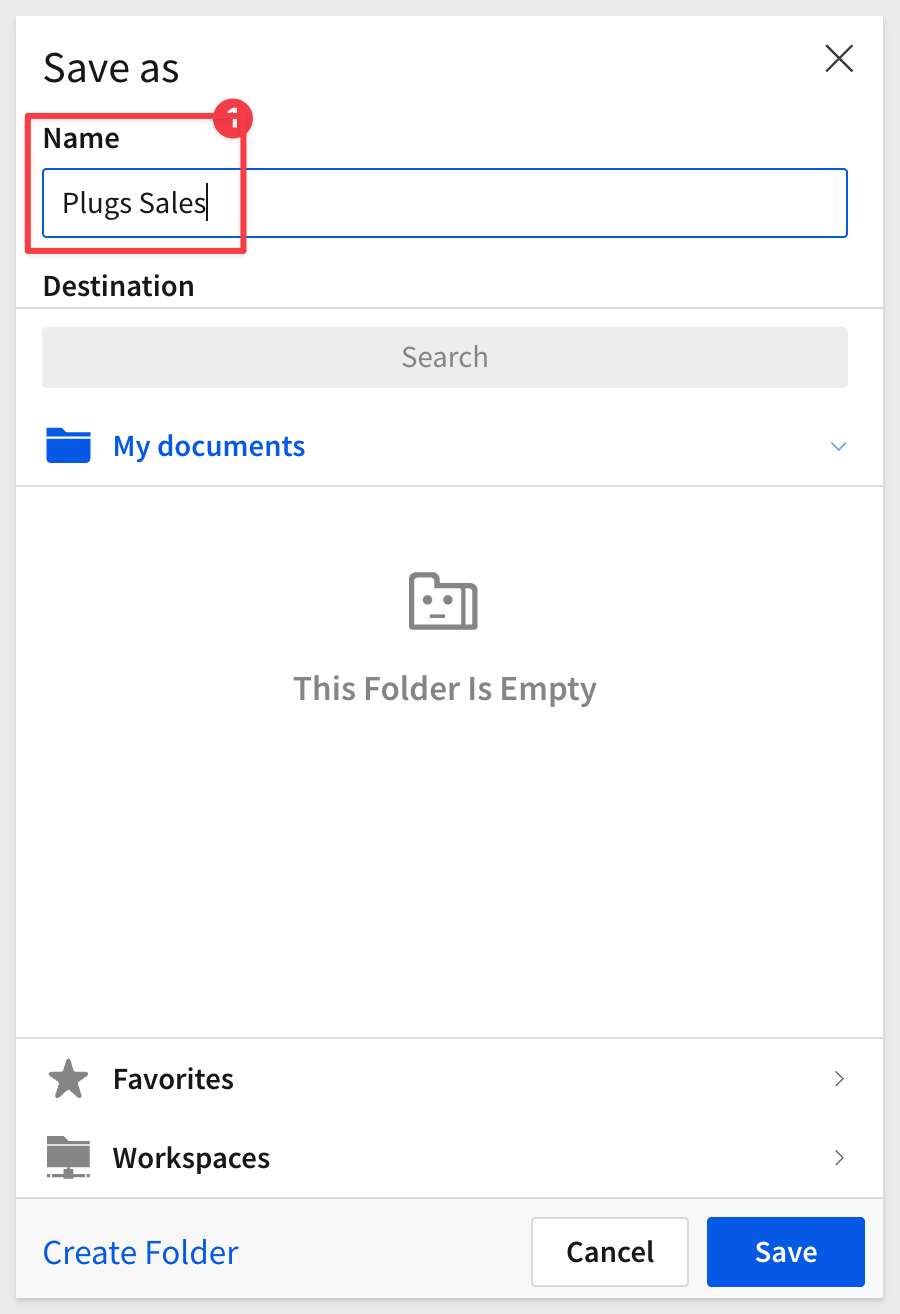
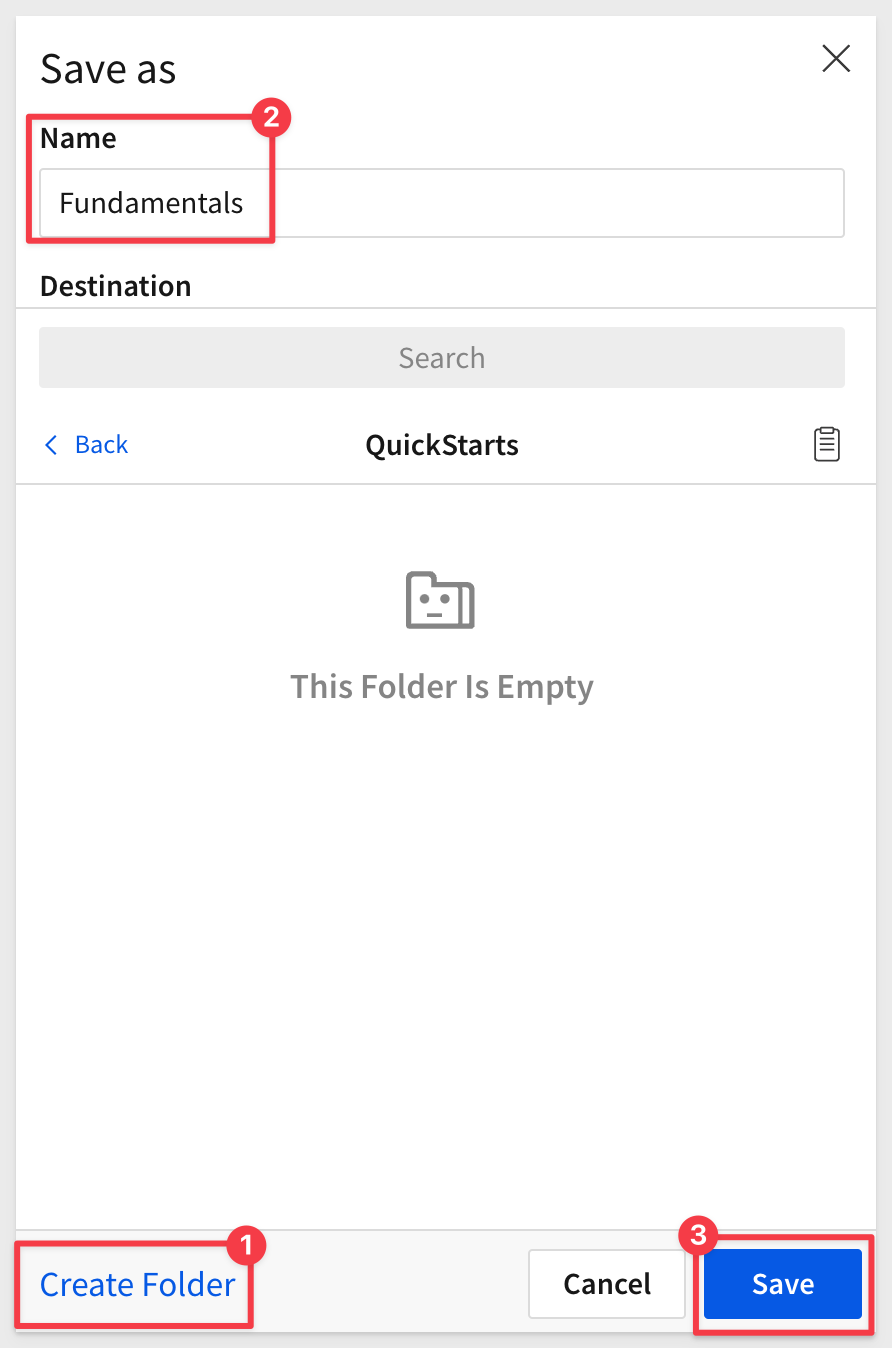
wip

diff --git a/site/sigmaguides/src/Fundamentals 1: Getting Around_v2/Fundamentals 1: Getting Around.md b/site/sigmaguides/src/Fundamentals 1: Getting Around_v2/Fundamentals 1: Getting Around.md
@@ -112,11 +112,11 @@ When the page loads in your default browsers, enter in your `Company Name` and `
 
 Create your user profile and click the `Create` button:
 
-<img src="assets/f3.png" alt="drawing" width="800"/>
+<img src="assets/f3.png"  width="800"/>
 
 You should now see the Welcome Message for your `Sigma Trial`. There is a video tutorial you can watch if you like but for this QuickStart, just click `Go to home page`:
 
-<img src="assets/f4.png" alt="drawing" width="800"/>
+<img src="assets/f4.png"  width="800"/>
 
 ![Footer](assets/sigma_footer.png)
 <!-- END OF SIGMA TRIAL SETUP -->
@@ -280,11 +280,13 @@ We can see all the different data available, and we are prompted to `Select a ta
 
 Select the `RETAIL` schema and the `Plugs_Electronics` (we will just call it “Plugs”) database, expand it and select the `PLUGS_ELECTRONICS_HANDS_ON_LAB_DATA` table. 
 
-We can see exactly what is **live** in the Snowflake table. 
+We can see all the data that is **live** in the Snowflake table. 
 
 The path and name is shown at the top middle of the screen (#2) and the total row count (#3) is about **4.58+ million rows in 23 columns**.
 
 We are looking at the data (in the Overview tab) and we can also look at the column detail, permissions and other information about this table (#4).
+
+<img src="assets/f11.png" width="800"/>
 
 <aside class="positive">
 <strong>IMPORTANT:</strong><br> There is a lot more we can do with this table in this interface such as "pre-assign" friendly column names, create "metrics" and assign permissions and more. Feel free to explore if you are comfortable doing so.
@@ -310,13 +312,15 @@ This means you have one central location to start both your ad hoc analysis and 
 
 We are now inside a Sigma Workbook. 
 
+<img src="assets/f12.png" width="800"/>
+
 As you can see our table was added to the canvas (#1).  
 
 Each Workbook can have one or more `Pages` (#2), and each page has its own canvas. 
 
 Each canvas supports one or more visual elements (e.g. charts, tables, controls, images, etc). 
 
-Click on the `PLUGS_ELECTRONICS_HANDS_ON_LAB_DATA` table (if not already selected).
+Click on the `PLUGS_ELECTRONICS_HANDS_ON_LAB_DATA` table. When an element on the canvas is selected, it will have a blue border.
 
 The left hand pane (#3) shows a vertical view of all our columns, groupings, metrics and more.
 
@@ -338,13 +342,27 @@ It is best practice to name workbooks something that makes sense to you and othe
 
 Notice that we are given options on where to save it, using a familiar folder structure. 
 
-Click `Create Folder` and name it `Fundamentals`. Then click into the `Fundamentals` folder, and name the workbook `Plugs Sales`:
+Click `Create Folder` and name it `QuickStarts`. Then click into the `QuickStarts` folder, and name the workbook `Fundamentals`:
 
-<img src="assets/f13.png" alt="drawing" width="350"/>
+<img src="assets/f13.png"  width="350"/>
 
-If you need to rename it later you can by clicking on the workbook name's drop menu and selecting `Rename`. You could also just double-click the workbook name and type a new one:
+Workbooks have a menu that is accessed by clicking the down-arrow to the right of the name (#1):
 
-<img src="assets/f14.png" alt="drawing" width="400"/>
+The path to the workbook is shown (#2) along with the menu of features (#3).
+
+Clicking the star icon (#4) will add the workbook to your favorites list that is shown on the homepage.
+
+<img src="assets/f14.png" width="400"/>
+
+Badges (#5) can be added to indicate a [workbook is endorse in some way.](https://help.sigmacomputing.com/docs/add-or-update-a-workbook-badge)
+
+For example, we might want to warn others that this workbook is under construction still:
+
+<img src="assets/f14a.png" width="400"/>
+
+Once set, the workbook will show both the endorsement and the text:
+
+<img src="assets/f14b.png" width="400"/>
 
 <aside class="negative">
 <strong>NOTE:</strong><br> Rename any column in the same way. The name change does not effect the source data in Snowflake but rather provides a simple way to make the data more accessible to the users looking at the workbook.
@@ -352,7 +370,7 @@ If you need to rename it later you can by clicking on the workbook name's drop m
 
 Now that you have saved the workbook, it's state is changed to `Published` and we are still in `Editing` mode. The `Publish` button is not active.
 
-<img src="assets/plugstable3dots.png" alt="drawing" width="500"/>
+<img src="assets/plugstable3dots.png"  width="500"/>
 
 **These options allow you to:**
 <ul>
@@ -386,7 +404,9 @@ Click the `Publish` button and then click `Editing / Go to the published version
 
 <img src="assets/f15.png" width="800"/>
 
-We are taken to the published version of the workbook. This is what a user who does not have the right to edit workbooks would see. 
+We are taken to the published version of the workbook. 
+
+The `published version` is what a user sees when they do not have the right to edit the workbook. 
 
 <aside class="positive">
 <strong>Spreadsheet-like, Tabular Interface:</strong><br>
@@ -397,17 +417,23 @@ Each column has a drop menu (#1) and there are also some controls (#2) in the up
 
 The available options are limited based on the mode you are in (Published, Edit) and what account type (role) the user has. 
 
-These will be very useful as we go forward. Feel free to click into any of them now. 
+These will be very useful as we go forward. Feel free to click into any of them now, but undo any changes when done exploring.
 
 <img src="assets/f16.png" width="800"/>
 
-Notice that the **file download is limited to 1M rows** (the Excel limit). 
+Undo changes using the toolbar as shown:
+
+<img src="assets/f16b.png" width="600"/>
+
+Click the `3-dot` menu > `Export`:
+
+<img src="assets/f16a.png" width="500"/>
+
+While there are times when downloading data is needed, we do not want users to download the huge volumes of data that Sigma routinely handles. A better practice would be to send a report and also to use Sigma to provide only send the relevant information, formatted for easy consumptions by the recipient.
 
 <aside class="positive">
 <strong>IMPORTANT:</strong><br> You want users working in Sigma and not downloading data and building ungoverned spreadsheets with potentially old data and incorrect formulas. 
 </aside>
-
-<img src="assets/f17.png" width="500"/>
 
 Return to edit mode via the `Edit` button. 
 
@@ -417,12 +443,12 @@ Click the menu arrow on the `Data` page and select `Hide page`:
 
 The `Data` tab now carries an icon (#3) to indicate that it will not be visible to users who do not have edit rights.
 
+Drag the `Dashboard` page to be first in line:
+
 <img src="assets/f18.png" width="500"/>
 
-
-
 ![Footer](assets/sigma_footer.png)
-<!-- END OF WOOKBOOKS -->
+<!-- END OF WORKBOOKS -->
 
 ## Pages
 Duration: 6
@@ -639,7 +665,6 @@ Once you have created a schedule, Administrators can see it on the list of avail
 
 <img src="assets/f26.png" width="800"/>
 
-
 Back in the workbook select the `Workbook name` drop list and click `Schedule Exports`.
 
 Here, you can edit, delete, pause or "send now" any listed export job:
@@ -672,6 +697,10 @@ We can also send the data to several supported destinations or schedule an expor
 Duration: 6
 
 In this QuickStart we covered navigating the Sigma user interface, common terminology and some of the most common functionality. 
+
+This is where we left our `Fundamentals` workbook, in preparation for the next QuickStart:
+
+<img src="assets/f27.png" width="800"/>
 
 [Click here to move to the next QuickStart in this series.](https://quickstarts.sigmacomputing.com/guide/fundamentals-2-working-with-tables-v2/index.html)
 

diff --git a/site/sigmaguides/src/Fundamentals 2: Working with Tables-v2/Fundamentals 2: Working with Tables.md b/site/sigmaguides/src/Fundamentals 2: Working with Tables-v2/Fundamentals 2: Working with Tables.md
@@ -99,7 +99,7 @@ Now that we have our `Sales`, we should be able to calculate our `COGs`.
 
 You can do this one yourself now:
 ```code
-[Sales] - [Cost]
+[Quantity] * [Cost]
 ```
 
 Do the same to add the `Profit` column:
@@ -283,8 +283,12 @@ While we have not gotten to visualizations just yet, it is good to know that sor
 
 <img src="assets/sort5.png" width="600"/>
 
+At this point (with filters removed), our dashboard still looks like this (in edit mode still), with about 572K rows:
+
+<img src="assets/filters3f.png" width="800"/>
+
 ![Footer](assets/sigma_footer.png)
-<!-- END OF CALCULATED COLUMNS -->
+<!-- END OF SECTION-->
 
 ## Grouping Data
 Duration: 6
@@ -317,7 +321,9 @@ In our case, we also needed to reset the `Store Region` filter to show all regio
 ### Summarizing Profit
 We want to show the sum of profit for each region and we already have added a calculated column that shows profit per row.
 
-To add this rollup, we simply drag and drop the `Profit` column in the element panel (the PLUGS_DATA table has to be selected), and place it in the `GROUP BY` > ` CALCULATIONS` section of the `GROUPINGS` panel:
+To add this rollup, we simply drag and drop the `Profit` column in the element panel (the PLUGS_DATA table has to be selected), and place it in the `GROUP BY` > ` CALCULATIONS` section of the `GROUPINGS` panel.
+
+Rename the calculation column to `Region Profit:
 
 <img src="assets/region_profit.gif" width="800"/>
 
